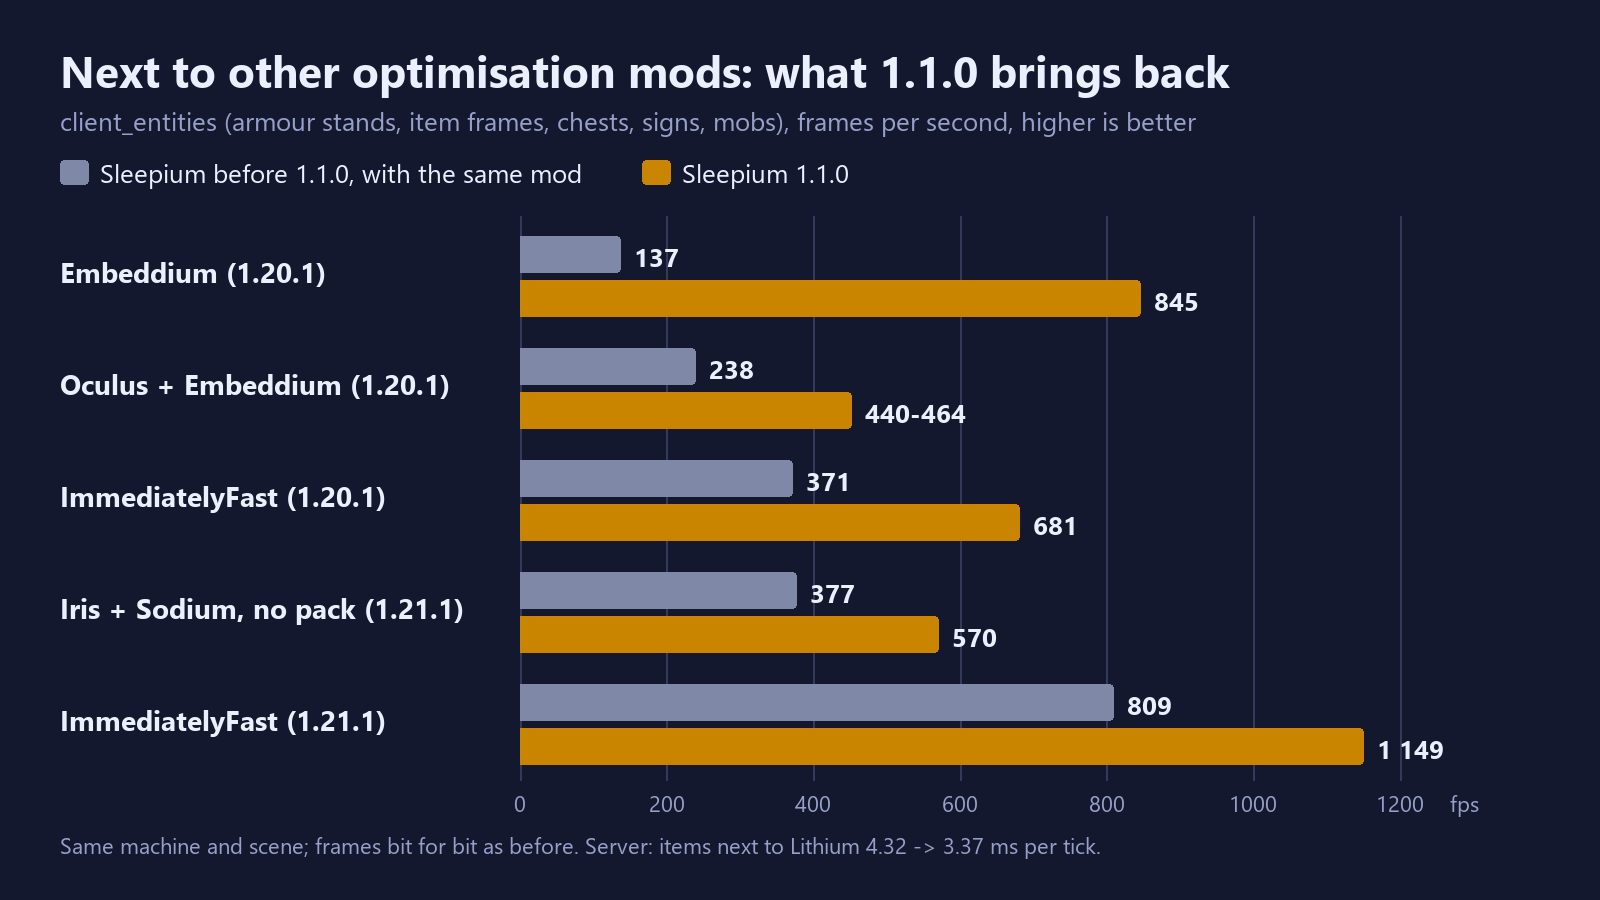
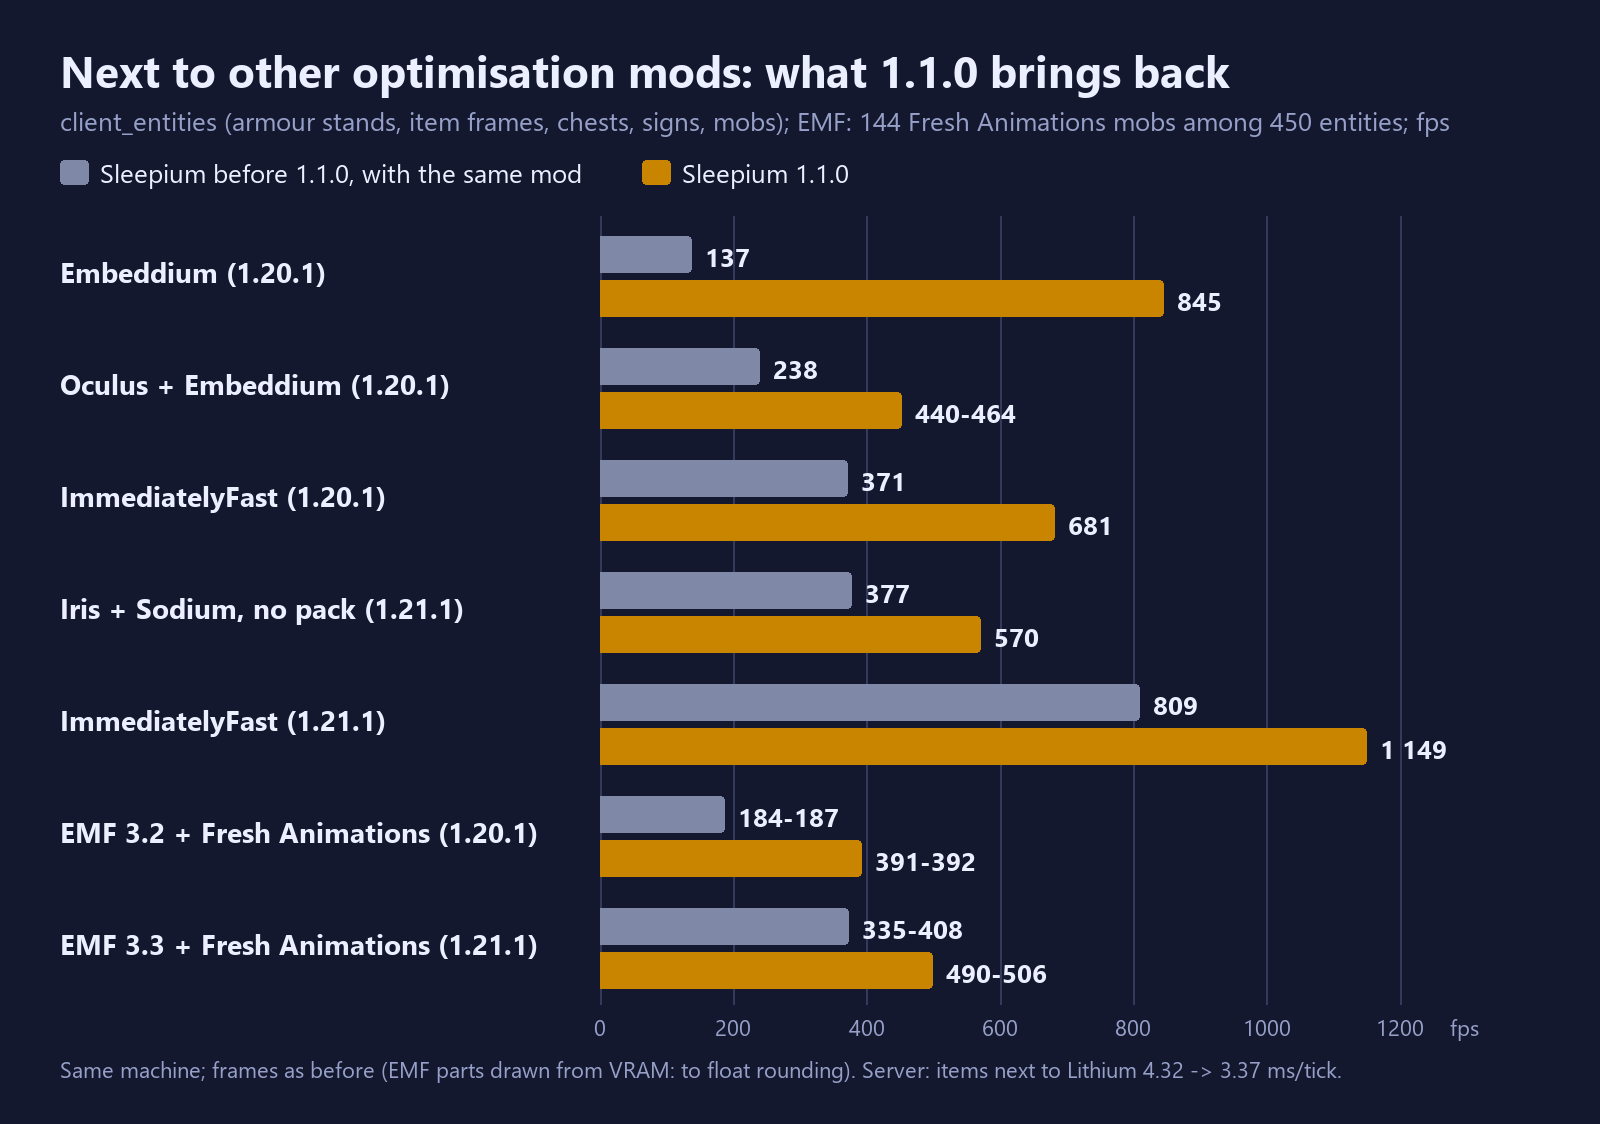
1.1.0 numbers re-measured: the EMF scenes and the Biohazard pack replaced by clean runs (a clean world every run - the zoo's mobs had piled up in the saved world, 450 -> 2 895 entities; no menu over the world - MCA's DestinyScreen had paused the pack's game; FPS Reducer off, windowed, a quiet machin

diff --git a/tools/gen_charts.py b/tools/gen_charts.py
@@ -89,17 +89,19 @@ chart('cursedfate-fight.png', 'A Cursed Fate fight on the client (Minecraft 1.20
       note='Bars at the middle of each measured range. Next to Oculus the entities stay on the render thread (its per-entity state).')
 
 chart('packs-110.png', 'In modpacks: without Sleepium and with 1.1.0',
-      'production clients, frames per second, higher is better; RTX 4070 SUPER; EMF + FA: 144 mobs animated by Fresh Animations',
-      [('Biohazard, 473 mods (1.20.1)', 440, 576, '440', '576'),
-       ('EMF + Fresh Animations (1.20.1)', 20, 93, '20', '93'),
-       ('EMF + Fresh Animations (1.21.1)', 37, 419, '37', '419')],
-      ('without Sleepium (the same jars, optimisations off)', 'Sleepium 1.1.0'), 'fps',
+      'production clients, frames per second, higher is better; RTX 4070 SUPER; EMF: 144 Fresh Animations mobs among 450 entities',
+      [('Biohazard, 473 mods (1.20.1)', 369, 575, '351-379', '571-578'),
+       ('EMF 3.2 + Fresh Animations (1.20.1)', 32, 391, '32-33', '391-392'),
+       ('EMF 3.3 + Fresh Animations (1.21.1)', 44, 498, '42-46', '490-506')],
+      ('without Sleepium (the same jars, optimisations off)', 'Sleepium 1.1.0'), 'fps', label_w=600,
       note="The mob scenes: each version's saved test world plus the mobs, so they differ between the versions.")
 
 chart('next-to-mods-110.png', 'Next to other optimisation mods: what 1.1.0 brings back',
-      'client_entities (armour stands, item frames, chests, signs, mobs), frames per second, higher is better',
+      'client_entities (armour stands, item frames, chests, signs, mobs); EMF: 144 Fresh Animations mobs among 450 entities; fps',
       [('Embeddium (1.20.1)', 137, 845, '137', '845'), ('Oculus + Embeddium (1.20.1)', 238, 452, '238', '440-464'),
        ('ImmediatelyFast (1.20.1)', 371, 681, '371', '681'), ('Iris + Sodium, no pack (1.21.1)', 377, 570, '377', '570'),
-       ('ImmediatelyFast (1.21.1)', 809, 1149, '809', '1 149')],
-      ('Sleepium before 1.1.0, with the same mod', 'Sleepium 1.1.0'), 'fps',
-      note='Same machine and scene; frames bit for bit as before. Server: items next to Lithium 4.32 -> 3.37 ms per tick.')
+       ('ImmediatelyFast (1.21.1)', 809, 1149, '809', '1 149'),
+       ('EMF 3.2 + Fresh Animations (1.20.1)', 186, 391, '184-187', '391-392'),
+       ('EMF 3.3 + Fresh Animations (1.21.1)', 372, 498, '335-408', '490-506')],
+      ('Sleepium before 1.1.0, with the same mod', 'Sleepium 1.1.0'), 'fps', label_w=600,
+      note='Same machine; frames as before (EMF parts drawn from VRAM: to float rounding). Server: items next to Lithium 4.32 -> 3.37 ms/tick.')

diff --git a/CHANGELOG.md b/CHANGELOG.md
@@ -20,12 +20,19 @@ Both versions:
   - Iris / Oculus (without a shaderpack), Embeddium and ImmediatelyFast no longer keep the render cache on its slow
     path: client_entities with Embeddium 137 -> 845 fps, Oculus 238 -> 440-464, ImmediatelyFast 371 -> 681 (1.20.1);
     Iris + Sodium 377 -> 570, ImmediatelyFast 809 -> 1 149 (1.21.1). Frames as before, bit for bit.
-  - Entity Model Features with Fresh Animations: a scene of 144 animated mobs 20 -> 93 fps (1.20.1), 37 -> 419
-    (1.21.1). Entities whose renderer such mods (EMF, ETF, Iris / Oculus) take part in stay on the render thread, as
-    before: those mods keep the entity being drawn in globals.
+- **Entity Model Features / Fresh Animations.** EMF before 3.3 compiles each model's animation into one method too
+  large for the JIT, so it ran in the interpreter (35 % of a frame): Sleepium cuts it into parts the JIT compiles - the
+  same instructions, the same results bit for bit (checked on 26 496 runs). EMF's model parts are drawn from video
+  memory like vanilla's. 144 Fresh Animations mobs among a test world's 450 other entities, Sleepium before this ->
+  with it: EMF 3.2 186 -> 391 fps, EMF 3.3 ~320 -> ~440 (1.20.1); EMF 3.3 ~370 -> ~500 (1.21.1); without Sleepium
+  32-46. Entities whose rendering EMF, ETF or Iris / Oculus take part in stay on the render thread: those mods keep the
+  entity being drawn in globals.
+- The parallel renderer's per-thread renderer sets are built only when an entity goes to the workers: next to mods
+  that keep every entity on the render thread (Oculus, EMF) the world no longer pauses when it opens (16 s in the
+  Biohazard pack).
 - **Crash at start with TerraBlender fixed** (1.0.x, both versions): TerraBlender makes methods Sleepium replaces public,
   and Mixin refused Sleepium's narrower ones. TerraBlender is in many packs (Biomes O' Plenty, Regions Unexplored, ...).
-  The full Biohazard pack (473 mods, 1.20.1): 440 -> 576 fps.
+  The whole Biohazard pack (473 mods, Fresh Animations included), a new world: 351-379 -> 571-578 fps (1.20.1).
 - A mod whose mixin config lists an empty (`null`) entry no longer hides the mods after it from Sleepium's check of
   other mods' changes (Sleep Tight's does): in a large pack Sleepium then did not step aside for Radium and the game
   did not start. Tested with the whole Biohazard pack (473 mods).

diff --git a/docs/compatibility.md b/docs/compatibility.md
@@ -47,7 +47,11 @@ comparison); Lithium helps fluids, redstone and pistons and slows items.
   the render thread, as before: those mods keep the entity being drawn in globals that their mixins in renderers and
   models read and write, so a worker would draw with another entity's state (with Fresh Animations, Entity Model
   Features crashed that way in a test build). Merging inside the dispatcher is there to try (`-Dlab.prender.inner=true`)
-  but not on. With Entity Model Features + Fresh Animations, 144 animated mobs: 37 -> 419 fps (1.21.1).
+  but not on.
+- **Entity Model Features**: its animations, which EMF before 3.3 leaves to the interpreter (a method over the JIT's
+  size limit), are cut into parts the JIT compiles (bit for bit the same results); its parts are drawn from video
+  memory. 144 Fresh Animations mobs among 450 other entities: EMF 3.2 on 1.20.1 186 -> 391 fps (Sleepium off 32),
+  EMF 3.3 on 1.21.1 ~370 -> ~500 (off 44); 1 440 mobs 12 -> 21 / 23 -> 27.
 - **TerraBlender** (and the many mods built on it) no longer crashes the game at start: it makes methods Sleepium
   replaces public, and Mixin refused Sleepium's narrower ones (1.0.x on 1.21.1 too).
 
@@ -85,8 +89,8 @@ items, mobs, redstone, villagers EXACT.
 | sodiumdynamiclights + Embeddium | | 863 | runs |
 | the whole set (13 mods), a horde of burning zombies | | 544 | entities on the render thread (Oculus, Embeddium in the dispatcher) |
 | a Cursed Fate fight with Oculus + Embeddium | 289 | 299 | |
-| the Biohazard pack (473 mods), a new world | 440 | 576 | starts, plays; Sleepium steps aside in 38 places |
-| Entity Model Features + ETF + Fresh Animations, 144 mobs | 20 | 93 | |
+| the Biohazard pack (473 mods), a new world | 351-379 | 571-578 | starts, plays; Sleepium steps aside in 38 places |
+| Entity Model Features 3.2 + ETF + Fresh Animations, 144 mobs among 450 entities | 32-33 | 391-392 | |
 
 Where Sleepium steps aside on 1.20.1: with Embeddium / Oculus the chunk renderer and a few render hooks (their own),
 with Radium / Canary collisions, entity sections, POI search and brains (theirs), with ModernFix parts of world

diff --git a/art/description.md b/art/description.md
@@ -64,9 +64,12 @@ In packs, without Sleepium and with 1.1.0 (production clients):
 
 | | without | 1.1.0 |
 |---|---:|---:|
-| Biohazard, 473 mods (1.20.1), a new world, fps | 440 | 576 |
-| Entity Model Features + Fresh Animations, 144 mobs (1.20.1), fps | 20 | 93 |
-| Entity Model Features + Fresh Animations, 144 mobs (1.21.1), fps | 37 | 419 |
+| Biohazard, 473 mods (1.20.1), a new world, fps | 351-379 | 571-578 |
+| 144 Fresh Animations mobs + 450 other entities, EMF 3.2 (1.20.1), fps | 32-33 | 391-392 |
+| 144 Fresh Animations mobs + 450 other entities, EMF 3.3 (1.21.1), fps | 42-46 | 490-506 |
+
+Entity Model Features: its animations now run compiled (EMF before 3.3 left them to the interpreter) and its model
+parts are drawn from video memory - on the scene above with EMF 3.2, Sleepium 1.0 186 fps, 1.1.0 391.
 
 Entity sleep now works next to mods that change entities (Lithium, Radium, Canary); ModernFix no longer turns off the
 collision memo. Fixed: a crash at start with TerraBlender (Biomes O' Plenty, Regions Unexplored and many packs) in

diff --git a/README.md b/README.md
@@ -26,8 +26,8 @@ or the [GitHub releases](../../releases). Each release has one jar per supported
 | 4 000 items on the ground, Intel N100 server, ms per tick (1.21.1) | 111 | 8.1 |
 | 4 000 items on the ground, Intel N100 server, ms per tick (1.20.1) | 115 | 10.7 |
 | A Cursed Fate fight (840 entities, burning mobs), fps, 1.20.1 | 87 | 600-646 |
-| The Biohazard pack (473 mods, 1.20.1), a new world, fps | 440 | 576 |
-| 144 mobs with Entity Model Features + Fresh Animations, fps, 1.21.1 | 37 | 419 |
+| The Biohazard pack (473 mods, 1.20.1), a new world, fps | 351-379 | 571-578 |
+| 144 Fresh Animations mobs (Entity Model Features 3.3) among 450 other entities, fps, 1.21.1 | 42-46 | 490-506 |
 
 How these were measured, on which hardware, and many more scenes: [docs/results.md](docs/results.md).
 
